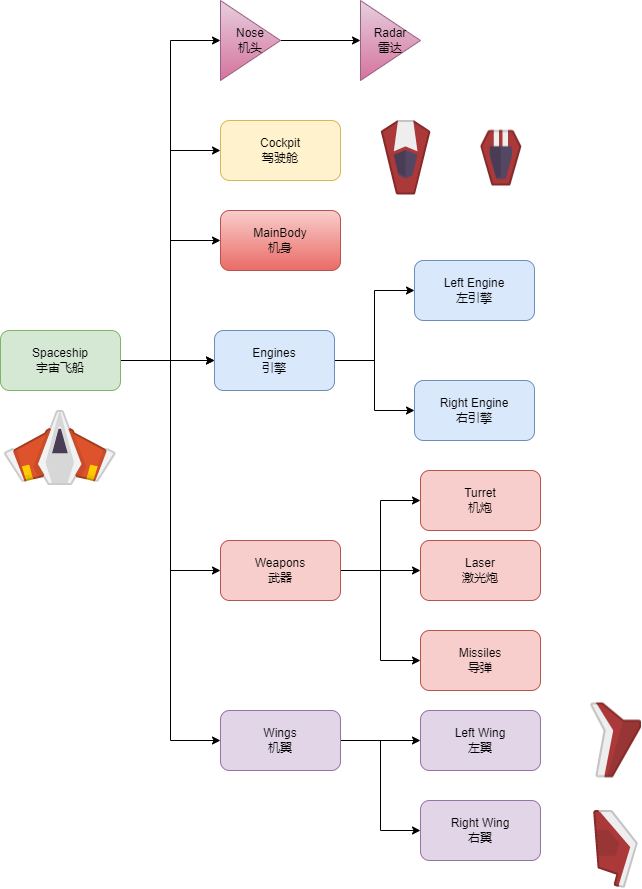
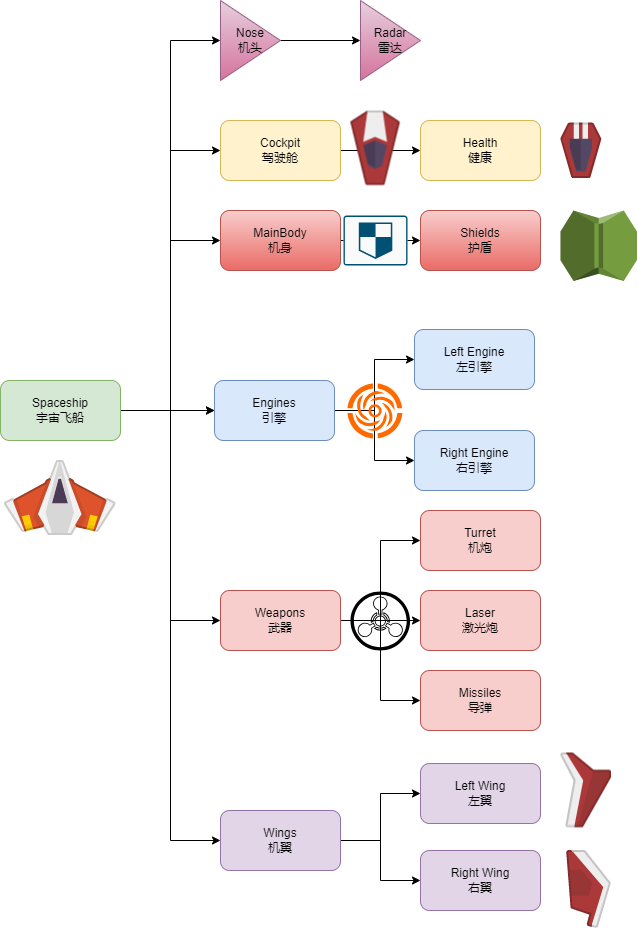
Update spaceship design
更新飞船设计图

diff --git a/README-EN.md b/README-EN.md
@@ -30,13 +30,18 @@ ______
 | Zoom               | mouse wheel /PageUp, PageDown          | Triggers         |
 
 ______
-##  1.2. Level Design
+## 1.2 Spacecraft design
+The spaceship can be divided into multiple components, and the diversity of the spaceship can be completed through the modular design, 
+base on this design the spaceship can be upgraded with equipment components, which provides the basis for the spaceship cultivation system.
+![Modular design for spacecraft](https://github.com/cloudhu/skywalker2088/blob/v0.14.2/docs/design/draw/designs-Spaceship.png "Spacecraft layout")
+
+##  1.3. Level Design
 The levels are mainly divided into: 1. Drama level; 2. Relic exploration level; 3. Infinite Abyss Level.
-###  1.2.1  Drama level
+###  1.3.1  Drama level
 todo……
-###  1.2.2  Relic exploration level
+###  1.3.2  Relic exploration level
 todo……
-###  1.2.3  Infinite Abyss Level
+###  1.3.3  Infinite Abyss Level
 todo……
 
 ______

diff --git a/README.md b/README.md
@@ -33,7 +33,7 @@ ______
 
 ## 1.2 太空飞船设计
 将太空飞船拆分为多个组件，通过组件式设计可以完成飞船的多样性，也可以使飞船进行装备组件的升级，为太空飞船的养成系统提供基础。
-![太空飞船组件式设计](.\docs\design\draw\designs-Spaceship.png "飞船设计图")
+![太空飞船组件式设计](https://github.com/cloudhu/skywalker2088/blob/v0.14.2/docs/design/draw/designs-Spaceship.png "飞船设计图")
 ______
 ##  1.3. 关卡设计
 关卡主要分为：1.剧情类关卡；2.遗迹探索类关卡；3.无限深渊关卡。
